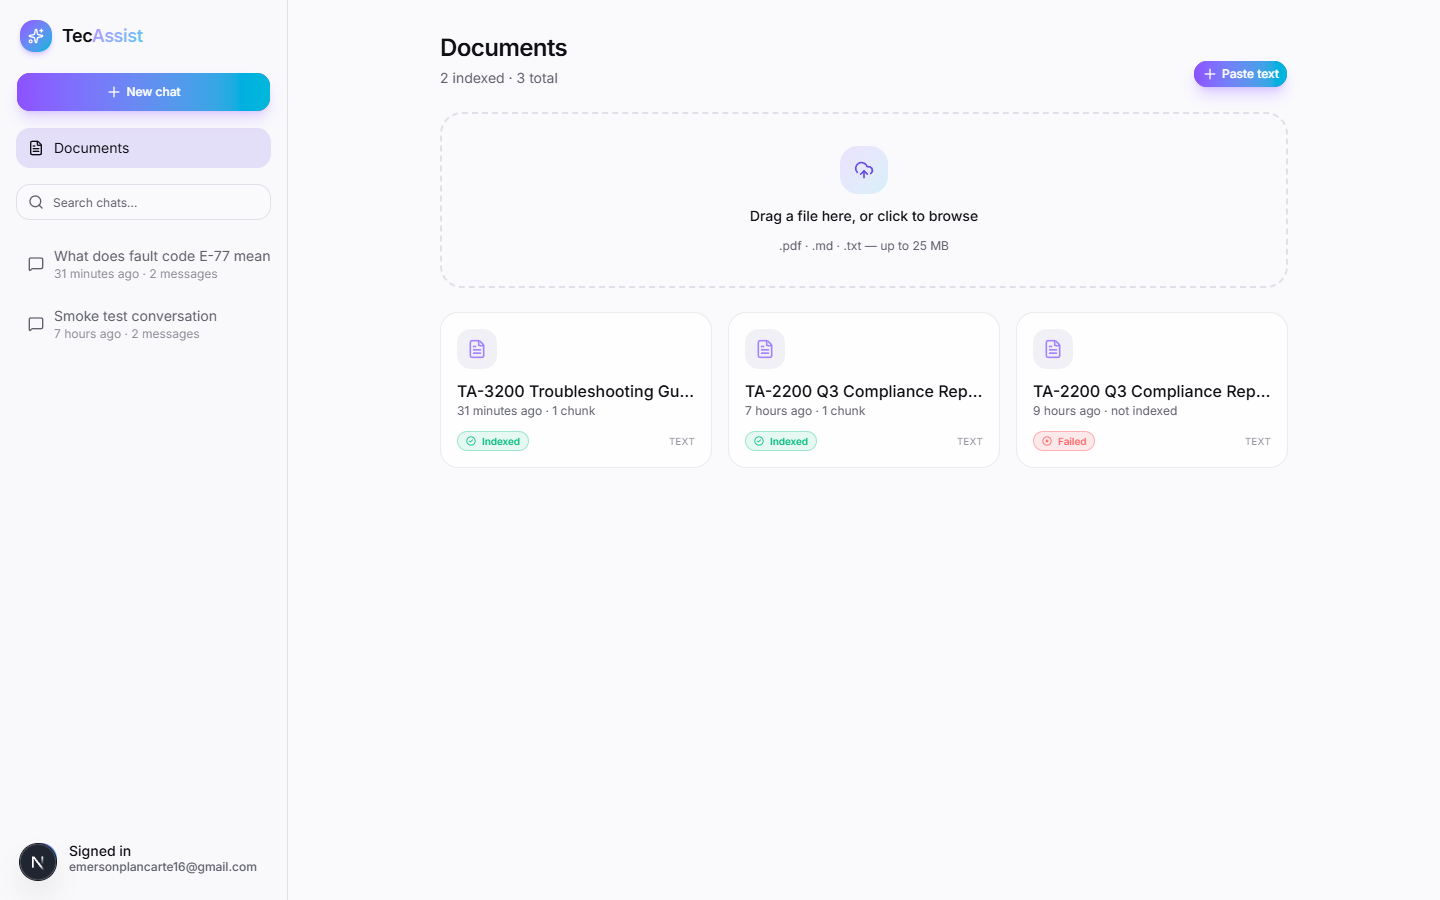
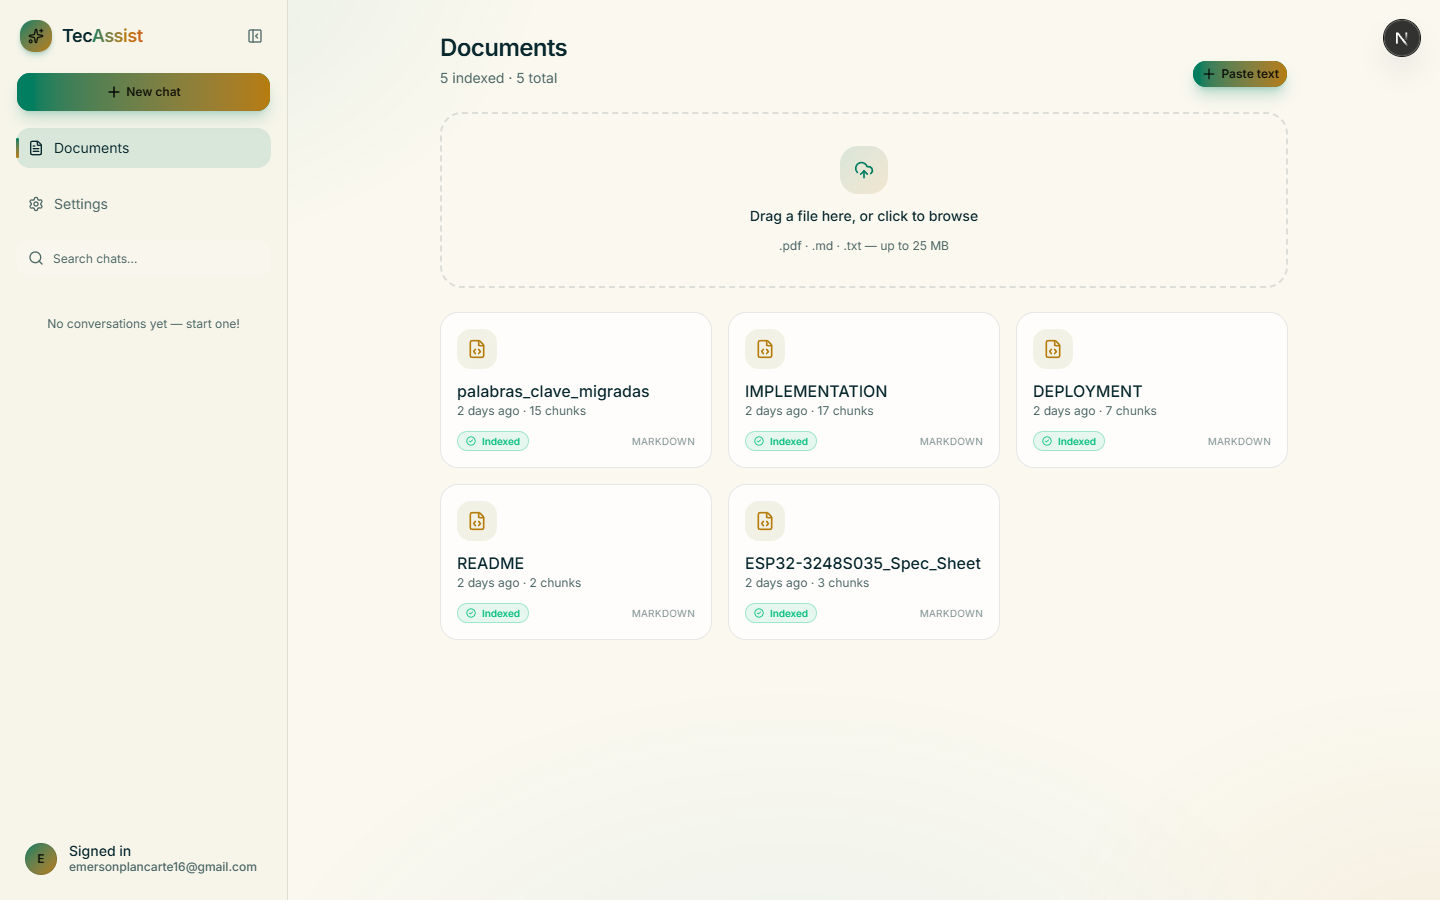
docs: refresh screenshots to current UI and expand README gallery - recapture login/chat/documents live (auth card, orbital empty state, 5 indexed docs in light theme, cited 2-exchange chat), add command palette + settings shots for post-capture features

diff --git a/README.md b/README.md
@@ -4,9 +4,16 @@
 
 ![CI/CD](https://github.com/Emerson3101/TecAssistNet/actions/workflows/ci-cd.yml/badge.svg)
 
-![Login](docs/screenshots/login.png)
-
-![Chat](docs/screenshots/chat-answer.png)
+<p align="center">
+  <img width="49%" src="docs/screenshots/chat-answer.png" alt="Chat — streaming answers with inline citations and source chips">
+  <img width="49%" src="docs/screenshots/documents-light.png" alt="Document manager in light theme">
+  <br/>
+  <img width="49%" src="docs/screenshots/command-palette.png" alt="Command palette (Ctrl+K)">
+  <img width="49%" src="docs/screenshots/settings.png" alt="Settings — animated background and theme preferences">
+  <br/>
+  <img width="49%" src="docs/screenshots/login.png" alt="Login">
+  <img width="49%" src="docs/screenshots/chat-empty.png" alt="Empty chat with suggestion cards">
+</p>
 
 ## Highlights
 
